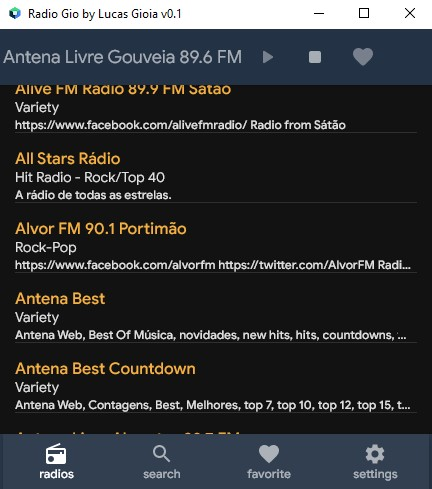
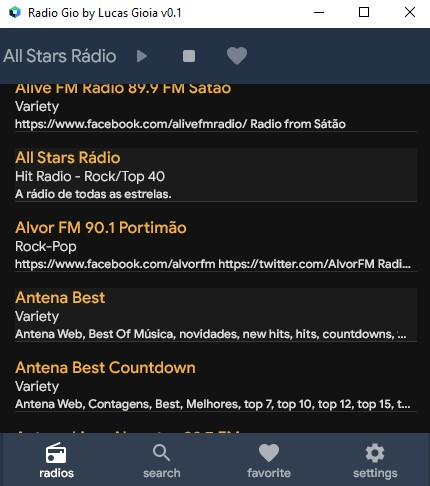
· Cambio de captura de pantalla. · Implementación inicial de favoritos.

diff --git a/src/main/kotlin/com/gioia/radio/data/repositories/RadioStationRepositoryImpl.kt b/src/main/kotlin/com/gioia/radio/data/repositories/RadioStationRepositoryImpl.kt
@@ -4,6 +4,7 @@ import com.gioia.radio.data.domains.RadioStation
 import org.dizitart.no2.*
 import org.dizitart.no2.exceptions.UniqueConstraintException
 import org.dizitart.no2.objects.ObjectFilter
+import org.dizitart.no2.objects.ObjectRepository
 import org.dizitart.no2.objects.filters.ObjectFilters
 import org.slf4j.Logger
 import org.slf4j.LoggerFactory
@@ -12,13 +13,17 @@ class RadioStationRepositoryImpl (
     private val database: Nitrite,
     private var logger: Logger = LoggerFactory.getLogger(RadioStationRepositoryImpl::class.java)
 ): RadioStationRepository {
+
+    private fun getRepository(): ObjectRepository<RadioStation> {
+        return database.getRepository(RadioStation::class.java)
+    }
     override fun removeAll(){
-        database.getRepository(RadioStation::class.java).remove(ObjectFilters.ALL)
+        getRepository().remove(ObjectFilters.ALL)
         logger.atDebug().log("Removed all radio stations from database.")
     }
 
     override fun saveAll(radioStation: List<RadioStation>){
-        val repository =  database.getRepository(RadioStation::class.java)
+        val repository =  getRepository()
         radioStation.forEach {
                 try {
                     repository.insert(it)
@@ -31,24 +36,34 @@ class RadioStationRepositoryImpl (
     }
 
     override fun createIndexes(){
-        val repository = database.getRepository(RadioStation::class.java)
-        if (repository != null && !repository.hasIndex("name")) {
-            repository.createIndex("name",
-                IndexOptions.indexOptions(IndexType.NonUnique, false)
-            )
-        }
+        val repository = getRepository()
+
+        listOf("name", "isFavorite")
+            .forEach { newIndex->
+                if (!repository.hasIndex(newIndex)) {
+                    repository.createIndex(newIndex, IndexOptions.indexOptions(IndexType.NonUnique, false))
+                }
+            }
     }
 
     override fun getInitialRadioStations(): List<RadioStation>{
         return findByCountryNameLike("Portugal")
-        /*return database
-            .getRepository(Country::class.java)
+        /*return getRepository()
             ?.find(
                 FindOptions
                     .sort("name", SortOrder.Ascending)
                     .thenLimit(0, 5)
             )
             ?.toList() ?: emptyList()*/ //
+    }
+
+    override fun getFavoritesRadioStations(): List<RadioStation>{
+        return getRepository()
+            .find(
+                ObjectFilters.eq("isFavourite", true),
+                FindOptions.sort("name", SortOrder.Ascending)
+            )
+            ?.toList() ?: emptyList()
     }
 
     override fun findByCountryNameLike(countryCode: String): List<RadioStation>{
@@ -63,14 +78,17 @@ class RadioStationRepositoryImpl (
     }
 
     private fun findByCriteriaWithLimit(criteria: ObjectFilter): List<RadioStation>{
-        return database
-            .getRepository(RadioStation::class.java)
-            ?.find(
+        return getRepository()
+            .find(
                 criteria,
                 FindOptions
                     .sort("name", SortOrder.Ascending)
                     .thenLimit(0, 5000)
             )
             ?.toList() ?: emptyList()
+    }
+
+    override fun updateOne(radioStation: RadioStation){
+        getRepository().update(radioStation)
     }
 }

diff --git a/src/main/kotlin/com/gioia/radio/ui/screens/stations/StationsViewModelImpl.kt b/src/main/kotlin/com/gioia/radio/ui/screens/stations/StationsViewModelImpl.kt
@@ -17,7 +17,7 @@ import org.slf4j.Logger
 import org.slf4j.LoggerFactory
 
 
-class StationsViewModelImpl(
+open class StationsViewModelImpl(
     private val playerService: PlayerService,
     private val radioStationsRepository: RadioStationRepository,
     private val configurationRepository: ConfigurationRepository,
@@ -26,9 +26,9 @@ class StationsViewModelImpl(
     private var logger: Logger = LoggerFactory.getLogger(StationsViewModelImpl::class.java)
 
     // Si statekeeper contiene el valor almacenado, entonces lo usa, sino usa un nuevo objeto Model.
-    private val _model = mutableStateOf(stateKeeper.consume(key = this.javaClass.name) ?: StationsModel())
+    protected val _model = mutableStateOf(stateKeeper.consume(key = this.javaClass.name) ?: StationsModel())
     override val model: State<StationsModel> = _model
-    private val state by model // para evitar hacer model.value siempre
+    protected val state by model // para evitar hacer model.value siempre
 
     override var componentContext: ComponentContext? = null
     init {
@@ -50,7 +50,7 @@ class StationsViewModelImpl(
         }*/
     }
 
-    private inline fun changeState(reducer: StationsModel.() -> StationsModel): StationsModel {
+    protected inline fun changeState(reducer: StationsModel.() -> StationsModel): StationsModel {
         val newModel = state.reducer()
         _model.value = newModel
         return newModel
@@ -75,7 +75,13 @@ class StationsViewModelImpl(
     }
 
     override fun onPlayPressed(isPlaying: Boolean?, radioStation: RadioStation?){
-        changeState { state.copy(isPlaying = isPlaying ?: !state.isPlaying, selectedRadioStation = radioStation ?: state.selectedRadioStation)}
+        changeState {
+            state.copy(
+                isPlaying = isPlaying ?: !state.isPlaying,
+                selectedRadioStation = radioStation ?: state.selectedRadioStation,
+                isFavourite = radioStation?.isFavourite ?: state.selectedRadioStation?.isFavourite ?: false
+            )
+        }
         playerService.playRadio(state.selectedRadioStation?.url ?: radioStation?.url ?: "")
         logger.atDebug().log("Reproduciendo la radio ${state.selectedRadioStation?.name}")
     }
@@ -87,9 +93,9 @@ class StationsViewModelImpl(
     }
 
     override fun onFavouritePressed(){
+        changeState { state.copy(isFavourite = !state.isFavourite) }
         logger.atDebug().log("Añandiendo a / eliminando de favoritos la radio ${state.selectedRadioStation?.name}")
         playerService.toggleFavourite(state.isFavourite, state.selectedRadioStation)
-        changeState { state.copy(isFavourite = !state.isFavourite) }
     }
 
     override fun onClearCountryFilter(){

diff --git a/src/main/kotlin/com/gioia/radio/data/repositories/ConfigurationRepositoryImpl.kt b/src/main/kotlin/com/gioia/radio/data/repositories/ConfigurationRepositoryImpl.kt
@@ -4,6 +4,7 @@ import com.gioia.radio.data.domains.Configuration
 import org.dizitart.no2.IndexOptions
 import org.dizitart.no2.IndexType
 import org.dizitart.no2.Nitrite
+import org.dizitart.no2.objects.ObjectRepository
 import org.dizitart.no2.objects.filters.ObjectFilters
 import org.slf4j.Logger
 import org.slf4j.LoggerFactory
@@ -13,18 +14,19 @@ class ConfigurationRepositoryImpl(
 ) : ConfigurationRepository {
     private var logger: Logger = LoggerFactory.getLogger(ConfigurationRepositoryImpl::class.java)
 
+    private fun getRepository(): ObjectRepository<Configuration> {
+        return database.getRepository(Configuration::class.java)
+    }
+
     override fun upsert(configuration: Configuration) {
-        database
-            .getRepository(Configuration::class.java)
-            .update(configuration, true)
+        getRepository().update(configuration, true)
         logger.atDebug().log("Actualizada la configuración ${configuration.key}, valor: ${configuration.value}")
     }
 
     override fun find(key: String): Configuration? {
         logger.atDebug().log("Buscando configuración $key")
-        val config = database
-            .getRepository(Configuration::class.java)
-            ?.find(
+        val config = getRepository()
+            .find(
                 ObjectFilters.eq("key", key)
             )
             ?.firstOrDefault()
@@ -33,8 +35,8 @@ class ConfigurationRepositoryImpl(
     }
 
     override fun createIndexes(){
-        val repository = database.getRepository(Configuration::class.java)
-        if (repository != null && !repository.hasIndex("key")) {
+        val repository = getRepository()
+        if (!repository.hasIndex("key")) {
             repository.createIndex("key",
                 IndexOptions.indexOptions(IndexType.Unique, false)
             )

diff --git a/src/main/kotlin/com/gioia/radio/config/dependencyInjection.kt b/src/main/kotlin/com/gioia/radio/config/dependencyInjection.kt
@@ -11,14 +11,12 @@ import com.gioia.radio.tools.DatabaseGenerator
 import com.gioia.radio.tools.DatabaseGeneratorImpl
 import com.gioia.radio.ui.screens.settings.SettingsViewModel
 import com.gioia.radio.ui.screens.settings.SettingsViewModelImpl
+import com.gioia.radio.ui.screens.stations.FavoriteStationsViewModelImpl
 import com.gioia.radio.ui.screens.stations.StationsViewModel
 import com.gioia.radio.ui.screens.stations.StationsViewModelImpl
 import com.gioia.radio.ui.screens.welcome.WelcomeViewModelImpl
 import org.dizitart.no2.Nitrite
-import org.kodein.di.DI
-import org.kodein.di.bindSingleton
-import org.kodein.di.direct
-import org.kodein.di.instance
+import org.kodein.di.*
 import uk.co.caprica.vlcj.player.component.AudioPlayerComponent
 import java.io.File
 
@@ -27,11 +25,12 @@ val di = DI {
     bindSingleton<CountryRepository> {CountryRepositoryImpl(instance())}
     bindSingleton<RadioStationRepository> { RadioStationRepositoryImpl(instance()) }
     bindSingleton<ConfigurationRepository> {ConfigurationRepositoryImpl(instance())}
-    bindSingleton<PlayerService> {PlayerServiceImpl(instance())}
+    bindSingleton<PlayerService> {PlayerServiceImpl(instance(), instance())}
     bindSingleton<MessageService> {MessageServiceImpl(instance())}
     bindSingleton {AudioPlayerComponent()}
     bindSingleton<StateKeeper> { StateKeeperDispatcher() }
     bindSingleton<StationsViewModel> { StationsViewModelImpl(instance(), instance(), instance(), instance()) }
+    bind<FavoriteStationsViewModelImpl> (tag = "favorites") with factory {FavoriteStationsViewModelImpl(instance(), instance(), instance(), instance())}
     bindSingleton<SettingsViewModel> { SettingsViewModelImpl(instance()) }
     bindSingleton { WelcomeViewModelImpl() }
 

diff --git a/src/main/kotlin/com/gioia/radio/data/repositories/CountryRepositoryImpl.kt b/src/main/kotlin/com/gioia/radio/data/repositories/CountryRepositoryImpl.kt
@@ -5,6 +5,7 @@ import org.dizitart.no2.IndexOptions
 import org.dizitart.no2.IndexType
 import org.dizitart.no2.Nitrite
 import org.dizitart.no2.exceptions.UniqueConstraintException
+import org.dizitart.no2.objects.ObjectRepository
 import org.dizitart.no2.objects.filters.ObjectFilters
 import org.slf4j.Logger
 import org.slf4j.LoggerFactory
@@ -13,13 +14,18 @@ class CountryRepositoryImpl(
     private val database: Nitrite,
     private var logger: Logger = LoggerFactory.getLogger(CountryRepositoryImpl::class.java)
 ) : CountryRepository {
+
+    private fun getRepository(): ObjectRepository<Country> {
+        return database.getRepository(Country::class.java)
+    }
+
     override fun removeAll() {
-        database.getRepository(Country::class.java).remove(ObjectFilters.ALL)
+        getRepository().remove(ObjectFilters.ALL)
         logger.atDebug().log("Removed all countries from database.")
     }
 
     override fun saveAll(countries: List<Country>) {
-        val repository = database.getRepository(Country::class.java)
+        val repository = getRepository()
         countries.forEach {
             try {
                 repository.insert(it)
@@ -32,8 +38,8 @@ class CountryRepositoryImpl(
     }
 
     override fun createIndexes() {
-        val repository = database.getRepository(Country::class.java)
-        if (repository != null && !repository.hasIndex("code")) {
+        val repository = getRepository()
+        if (!repository.hasIndex("code")) {
             repository.createIndex(
                 "code",
                 IndexOptions.indexOptions(IndexType.NonUnique, false)

diff --git a/src/main/kotlin/com/gioia/radio/services/PlayerServiceImpl.kt b/src/main/kotlin/com/gioia/radio/services/PlayerServiceImpl.kt
@@ -1,12 +1,14 @@
 package com.gioia.radio.services
 
 import com.gioia.radio.data.domains.RadioStation
+import com.gioia.radio.data.repositories.RadioStationRepository
 import org.slf4j.Logger
 import org.slf4j.LoggerFactory
 import uk.co.caprica.vlcj.player.component.AudioPlayerComponent
 
 class PlayerServiceImpl(
-    private var audioPlayerComponent: AudioPlayerComponent
+    private var audioPlayerComponent: AudioPlayerComponent,
+    private var radioStationRepository: RadioStationRepository
 ) : PlayerService {
     private var logger: Logger = LoggerFactory.getLogger(PlayerServiceImpl::class.java)
 
@@ -21,6 +23,8 @@ class PlayerServiceImpl(
     override fun toggleFavourite(isNowInFavourite: Boolean, radioStation: RadioStation?) {
         if(radioStation == null) return
         logger.atDebug().log("${if(isNowInFavourite) "Añandiendo a" else "Eliminando de"} favoritos la radio ${radioStation.name}")
+        radioStation.isFavourite = !radioStation.isFavourite
+        radioStationRepository.updateOne(radioStation)
     }
 
     override fun changeVolume(value: Int){

diff --git a/src/main/kotlin/com/gioia/radio/ui/navigation/RootComponentImpl.kt b/src/main/kotlin/com/gioia/radio/ui/navigation/RootComponentImpl.kt
@@ -71,19 +71,22 @@ class RootComponentImpl(
             is Config.Stations -> Child.Stations(
                 StationsComponent(
                     componentContext = componentContext,
-                    stationsViewModel = dk.instance()
+                    stationsViewModel = dk.instance(),
+                    false
                 )
             )
             is Config.Search -> Child.Search(
                 StationsComponent(
                     componentContext = componentContext,
-                    stationsViewModel = dk.instance()
+                    stationsViewModel = dk.instance(),
+                    false
                 )
             )
             is Config.Favorites -> Child.Favorites(
                 StationsComponent(
                     componentContext = componentContext,
-                    stationsViewModel = dk.instance()
+                    stationsViewModel = dk.instance(tag = "favorites"),
+                    true
                 )
             )
             is Config.Settings -> Child.Settings(

diff --git a/src/main/kotlin/com/gioia/radio/ui/screens/topAppBar/NavigationTopBar.kt b/src/main/kotlin/com/gioia/radio/ui/screens/topAppBar/NavigationTopBar.kt
@@ -9,6 +9,7 @@ import androidx.compose.material.icons.rounded.PlayArrow
 import androidx.compose.material.icons.rounded.Stop
 import androidx.compose.runtime.Composable
 import androidx.compose.runtime.getValue
+import androidx.compose.ui.graphics.Color
 import com.gioia.radio.services.MessageService
 import com.gioia.radio.ui.screens.stations.StationsViewModel
 
@@ -42,12 +43,12 @@ fun NavigationTopBar(
     }
 
     IconButton(
-        onClick = stationsViewModel::onFavouritePressed,
-        enabled = state.selectedRadioStation != null && state.isFavourite,
+        onClick = stationsViewModel::onFavouritePressed
     ) {
         Icon(
             imageVector = Icons.Rounded.Favorite,
-            contentDescription = messageService.msg("button.addToFavourite")
+            contentDescription = messageService.msg("button.addToFavourite"),
+            tint = if(state.isFavourite) Color.Red else Color.White
         )
     }
 }

diff --git a/src/main/kotlin/com/gioia/radio/ui/screens/stations/FavoriteStationsViewModelImpl.kt b/src/main/kotlin/com/gioia/radio/ui/screens/stations/FavoriteStationsViewModelImpl.kt
@@ -1,0 +1,21 @@
+package com.gioia.radio.ui.screens.stations
+
+import com.arkivanov.essenty.statekeeper.StateKeeper
+import com.gioia.radio.data.repositories.ConfigurationRepository
+import com.gioia.radio.data.repositories.RadioStationRepository
+import com.gioia.radio.services.PlayerService
+
+class FavoriteStationsViewModelImpl(
+    playerService: PlayerService,
+    radioStationsRepository: RadioStationRepository,
+    configurationRepository: ConfigurationRepository,
+    stateKeeper: StateKeeper,
+) : StationsViewModelImpl(playerService, radioStationsRepository, configurationRepository, stateKeeper) {
+    init {
+        changeState { state.copy(
+            radioStations = radioStationsRepository.getFavoritesRadioStations()
+        )}
+
+       // stateKeeper.register(this.javaClass.name) { state }
+    }
+}

diff --git a/src/main/kotlin/com/gioia/radio/ui/screens/stations/StationsComponent.kt b/src/main/kotlin/com/gioia/radio/ui/screens/stations/StationsComponent.kt
@@ -9,13 +9,15 @@ import org.kodein.di.instance
 class StationsComponent(
     private val componentContext: ComponentContext,
     private val stationsViewModel: StationsViewModel,
+    private val onlyFavorites: Boolean
 ) : Component, ComponentContext by componentContext {
     @Composable
     override fun render() {
         Stations(
-            componentContext = componentContext,
-            messageService = dk.instance(),
-            stationsViewModel = stationsViewModel
+            componentContext,
+            dk.instance(),
+            stationsViewModel,
+            onlyFavorites
         )
     }
 }

diff --git a/src/main/kotlin/com/gioia/radio/data/repositories/RadioStationRepository.kt b/src/main/kotlin/com/gioia/radio/data/repositories/RadioStationRepository.kt
@@ -7,6 +7,9 @@ interface RadioStationRepository {
     fun saveAll(radioStation: List<RadioStation>)
     fun createIndexes()
     fun getInitialRadioStations(): List<RadioStation>
+    fun getFavoritesRadioStations(): List<RadioStation>
     fun findByCountryNameLike(countryCode: String): List<RadioStation>
     fun findByRadioNameLike(radioName: String): List<RadioStation>
+
+    fun updateOne(radioStation: RadioStation)
 }

diff --git a/src/main/kotlin/com/gioia/radio/data/domains/RadioStation.kt b/src/main/kotlin/com/gioia/radio/data/domains/RadioStation.kt
@@ -5,7 +5,7 @@ import org.dizitart.no2.mapper.Mappable
 import org.dizitart.no2.mapper.NitriteMapper
 import org.dizitart.no2.objects.Id
 
-class RadioStation(
+open class RadioStation(
     @Id
     var name: String,
     var countryCode: String,
